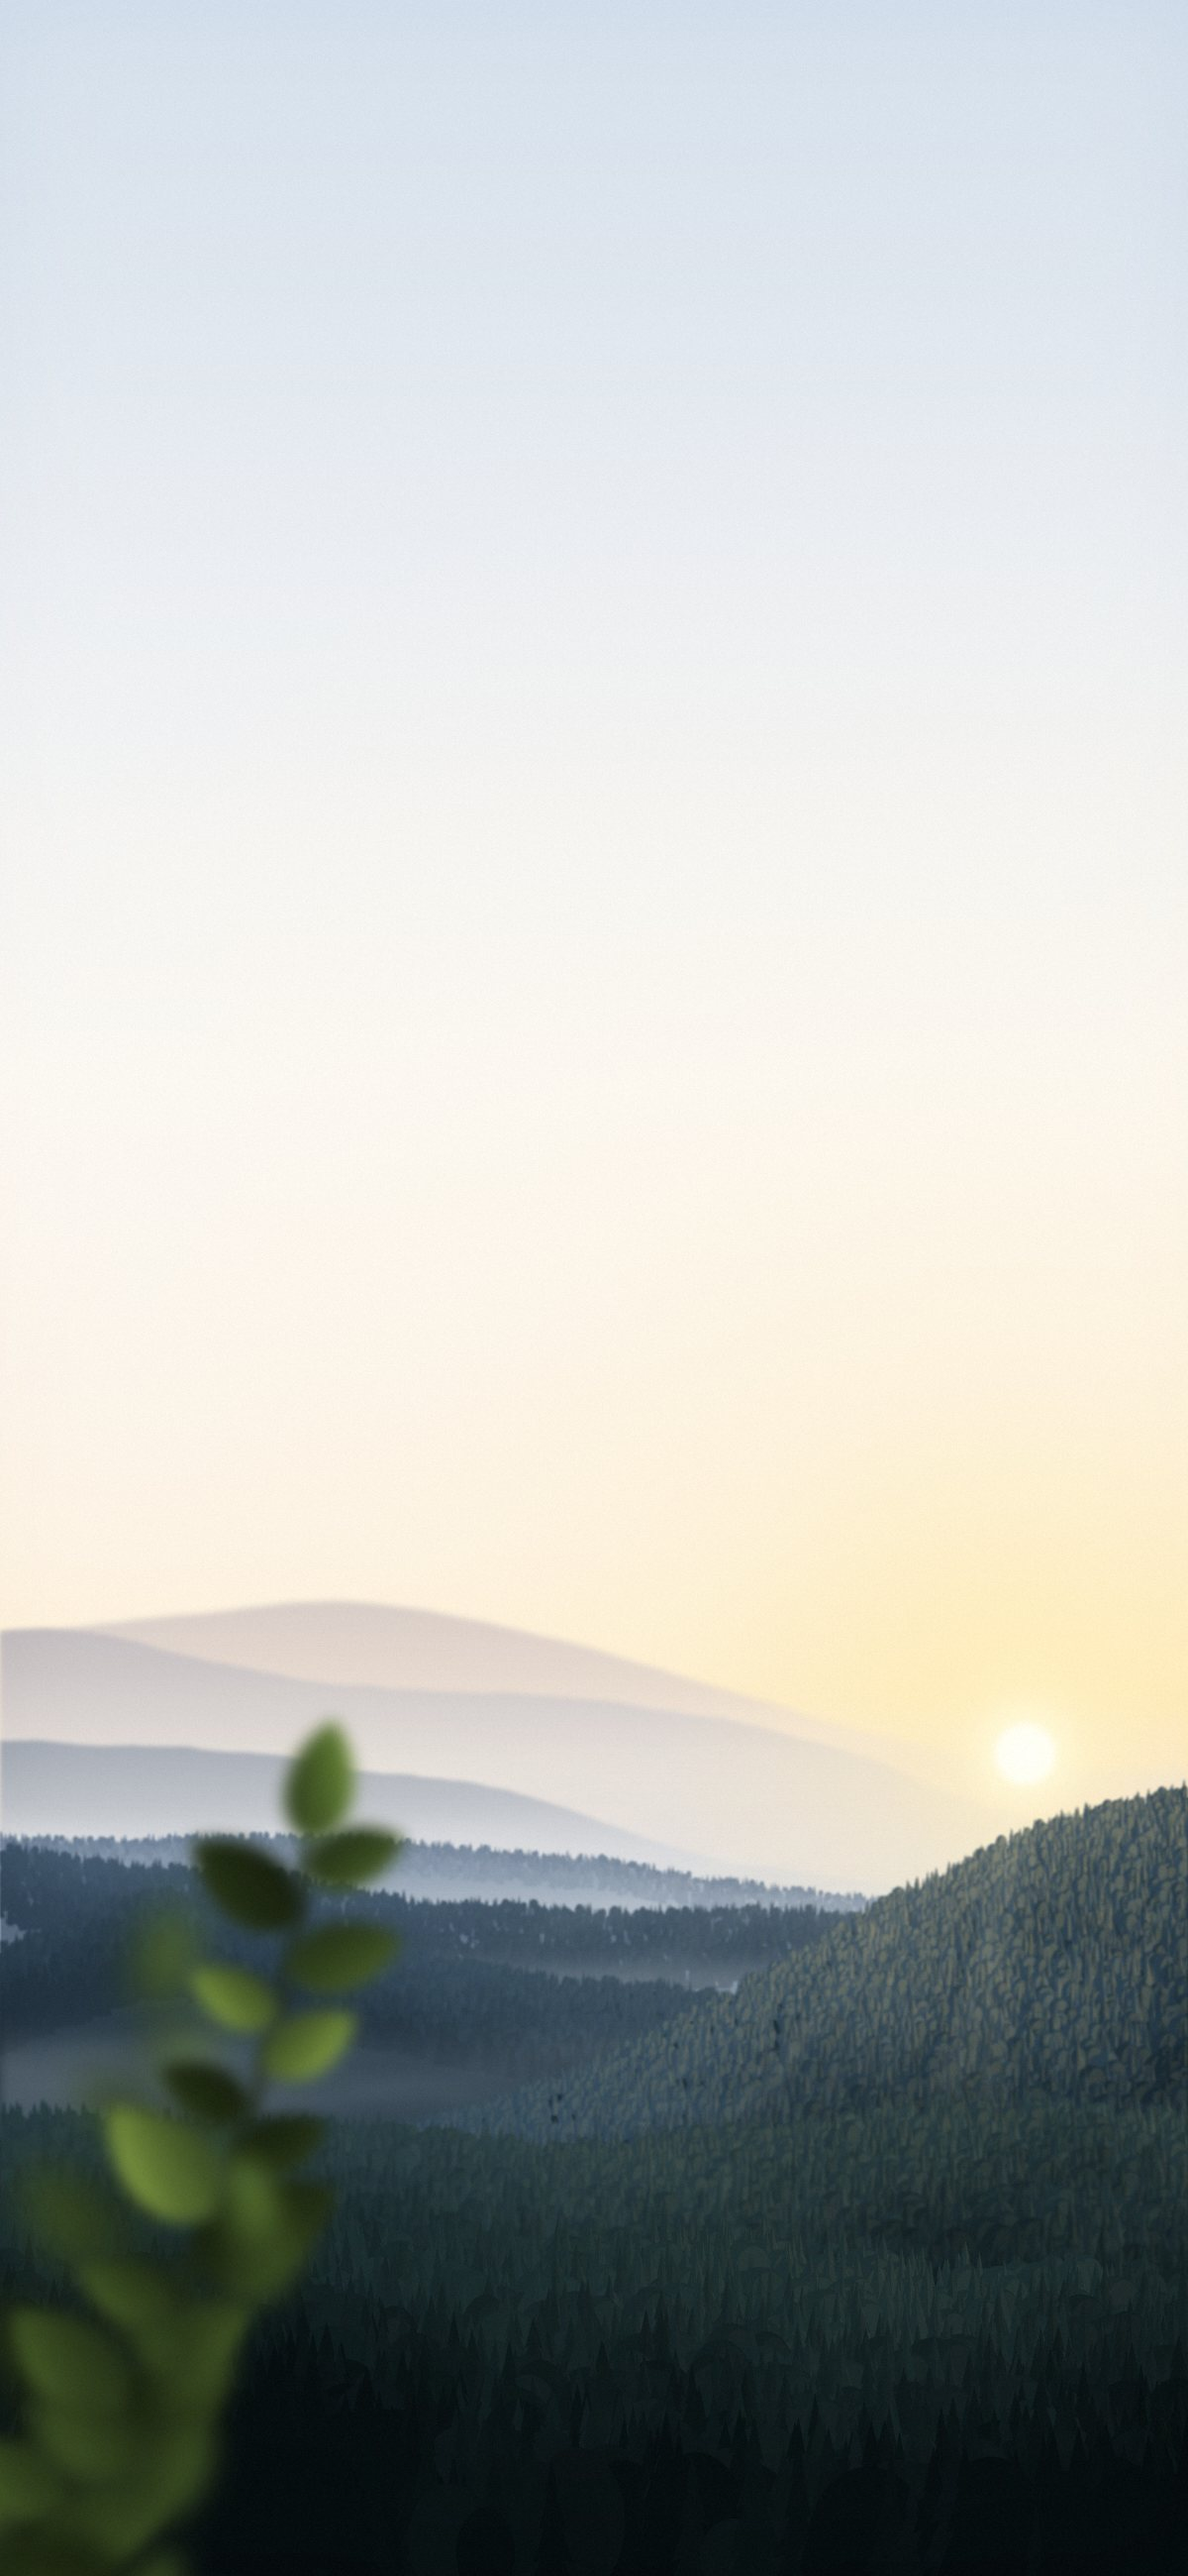
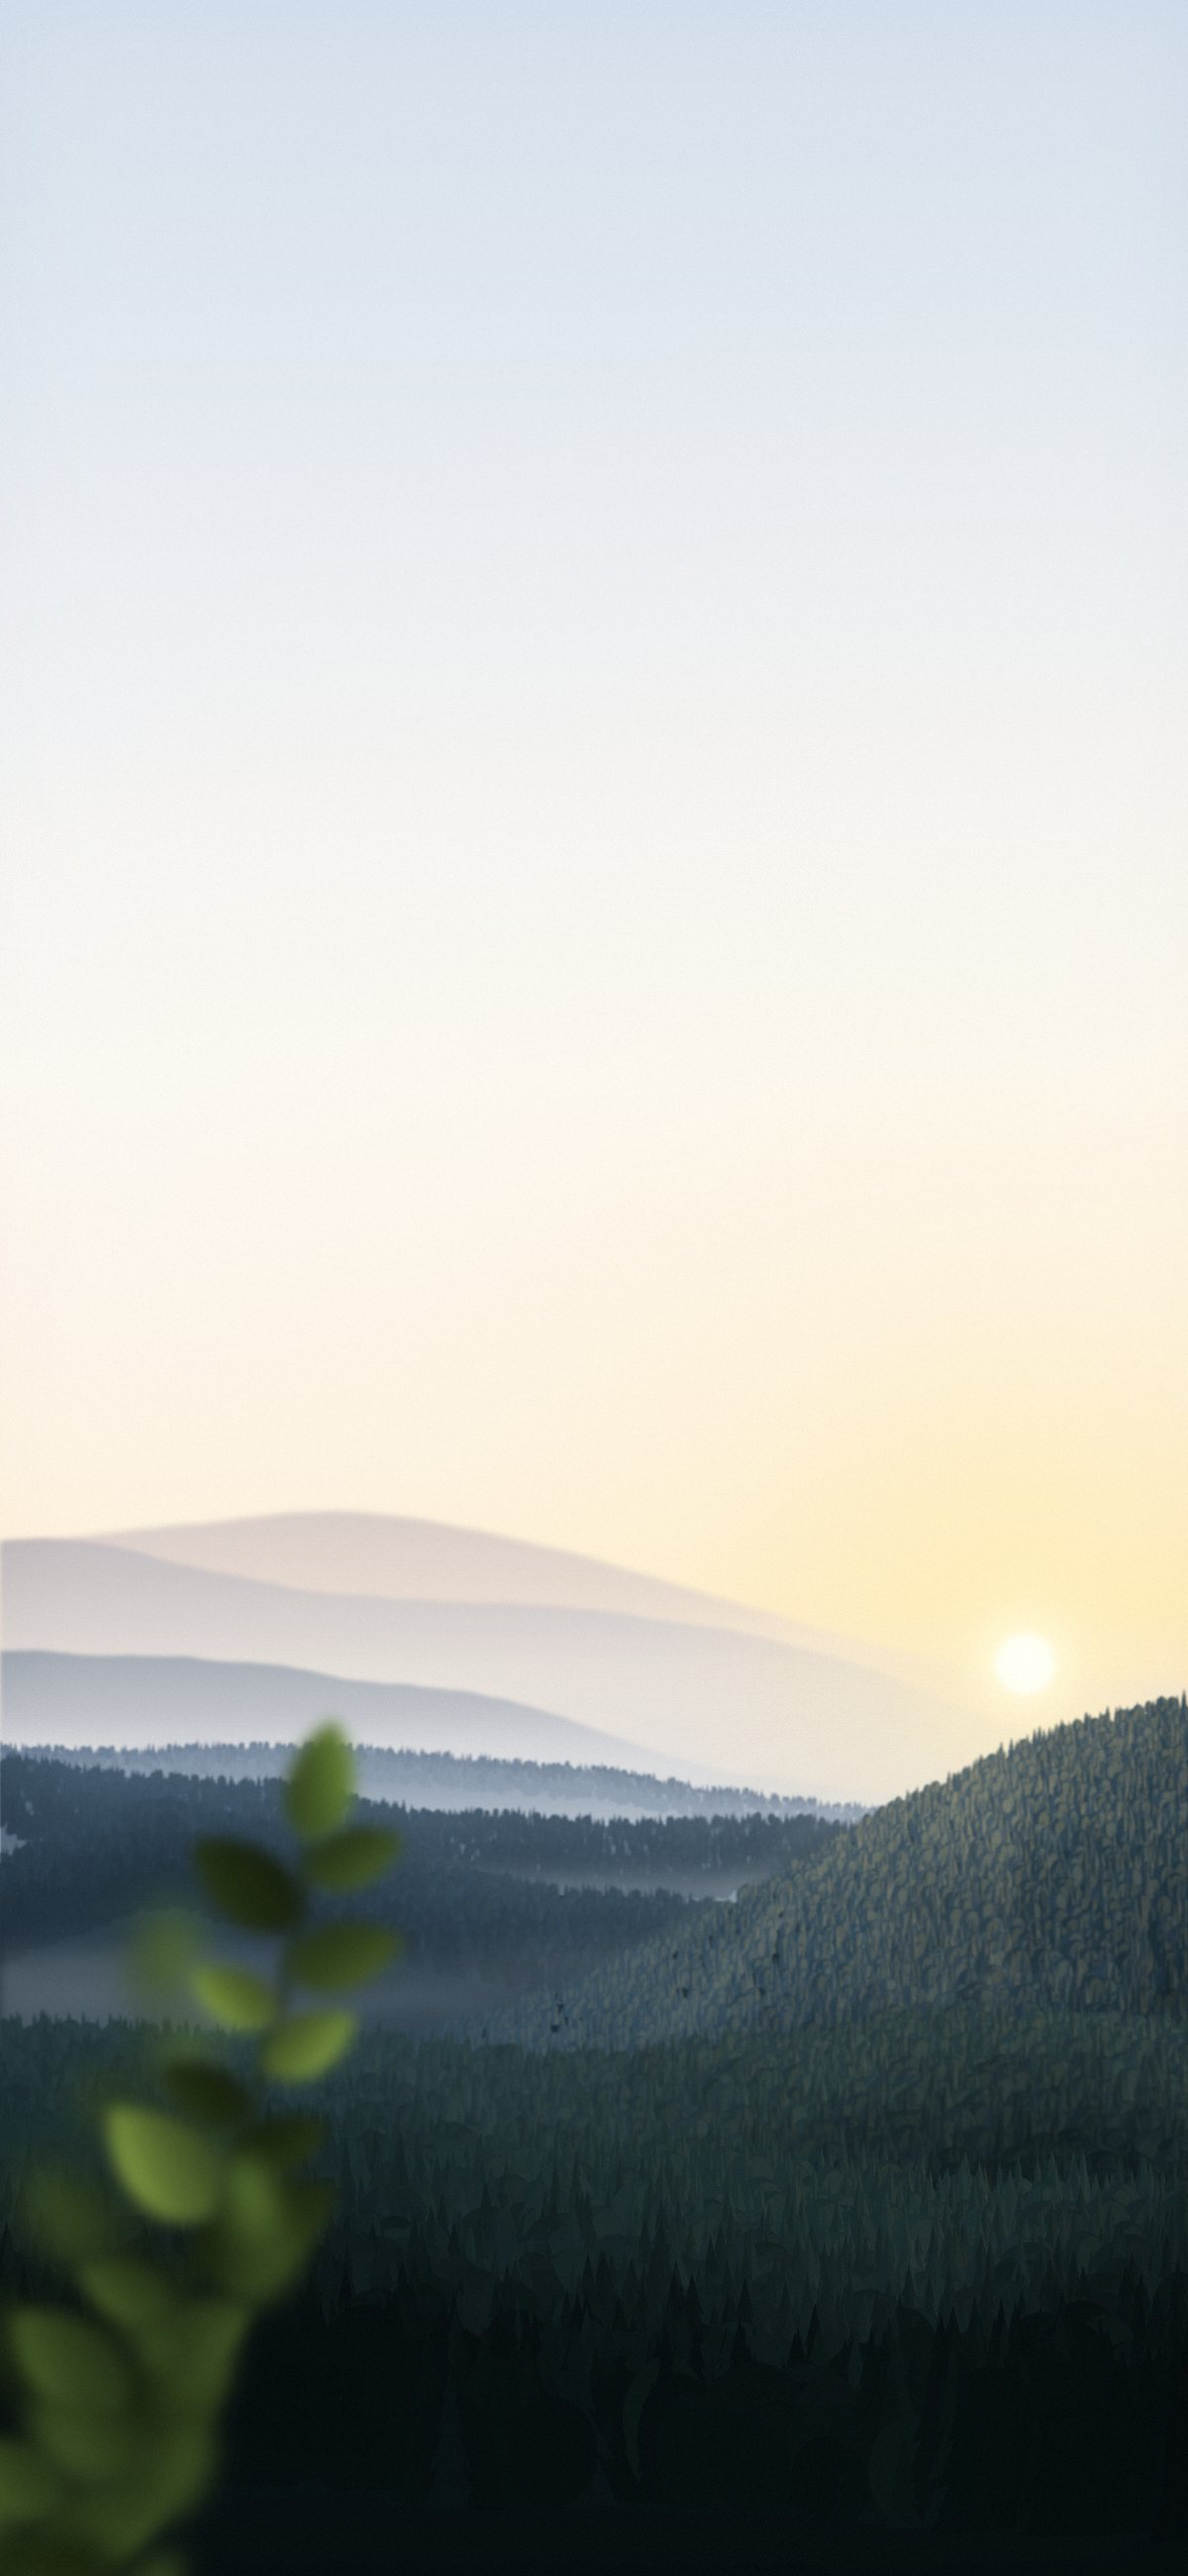
The hills sit higher on the loading and welcome pages and THE is set tighter, closer to Edwin's design, and the phone's splash lifts only once the app's own sprout is drawn

diff --git a/mobile/assets/brand/dawn.html b/mobile/assets/brand/dawn.html
@@ -3,11 +3,15 @@
 <body style="margin:0;background:#000">
 <canvas id="c"></canvas>
 <script>
-// A sunrise over misty forested ridges, after Edwin's loading-screen mockup.
+// A sunrise over misty forested ridges, after Edwin's loading-screen mockup
+// (the background of src/ui/Dawn.tsx). Open this file in a browser with
+//   #W=1200&H=2600&sun=0.863&seed=7&lift=0.035   (dawn-tall.jpg, JPEG 84%)
+//   #W=2400&H=1500&sun=0.70&seed=7&lift=0.035    (dawn-wide.jpg, JPEG 80%)
+// and save the canvas; the same seed draws the same hills every time.
 // Scene units: v = y / H, u = (x - sunX * W) / H, so a tall phone image and a
 // wide desktop image share the same hills around the sun.
 const P = Object.fromEntries(new URLSearchParams(location.hash.slice(1)))
-const W = +P.W, H = +P.H, SUNX = +P.sun, SEED = +(P.seed || 7)
+const W = +P.W, H = +P.H, SUNX = +P.sun, SEED = +(P.seed || 7), LIFT = +(P.lift || 0)
 const cv = document.getElementById('c')
 cv.width = W; cv.height = H
 let ctx = cv.getContext('2d')
@@ -28,13 +32,13 @@ function mixc(c1, c2, t) { const a = Array.isArray(c1) ? c1 : hex(c1), b = Array
 const X = (u) => SUNX * W + u * H
 const U = (x) => (x - SUNX * W) / H
 const HORIZON = 0.68
-const SUN = { x: X(0), y: (HORIZON + 0.001) * H }
+const SUN = { x: X(0), y: (HORIZON + 0.001 - LIFT) * H }
 
 // 1. The sky: pale blue at the top, cream through the middle, warm at the hills.
 function sky() {
   const g = ctx.createLinearGradient(0, 0, 0, H)
   const stops = [[0, '#ccd9e7'], [0.1, '#d6dfe9'], [0.22, '#e6eaef'], [0.33, '#f3f2f0'], [0.42, '#faf6f0'], [0.52, '#faf2e9'], [0.6, '#fcf0e0'], [0.65, '#fcecd1'], [0.69, '#f8e0bb'], [0.8, '#e9d2b4'], [1, '#cdbba6']]
-  for (const [o, c] of stops) g.addColorStop(o, c)
+  for (const [o, c] of stops) g.addColorStop(o >= 0.5 && o < 1 ? o - LIFT : o, c)
   ctx.fillStyle = g
   ctx.fillRect(0, 0, W, H)
   // Warmth spreading from the sun.
@@ -61,7 +65,7 @@ function sun() {
 
 // A ridge as a function of x in pixels.
 function ridge(base, amp, freq, seed, oct = 6) {
-  return (x) => (base(U(x)) + (fbm(U(x) * freq + 10, seed, oct) - 0.5) * 2 * amp) * H
+  return (x) => (base(U(x)) - LIFT + (fbm(U(x) * freq + 10, seed, oct) - 0.5) * 2 * amp) * H
 }
 
 function fillRidge(ry, top, bottom, alpha = 1, to = H) {
@@ -262,6 +266,7 @@ function fbm2(x, y, s, oct = 5) { let a = 1, f = 1, sum = 0, n = 0; for (let o =
 
 // Uneven mist between v0 and v1: thick in places, thin in others.
 function mistNoise(v0, v1, color, alpha, seed, stretch = 6) {
+  v0 -= LIFT; v1 -= LIFT
   const scale = 4
   const w = Math.ceil(W / scale), h = Math.ceil(((v1 - v0) * H) / scale)
   const off = document.createElement('canvas'); off.width = w; off.height = h

diff --git a/mobile/src/ui/Logo.tsx b/mobile/src/ui/Logo.tsx
@@ -61,7 +61,7 @@ export function Wordmark({ width, ink, lineInk }: { width: number; ink: string; 
   })
   return (
     <View accessible accessibilityRole="image" accessibilityLabel="The Persona Index. Understand. Grow. Be more you." style={{ alignItems: 'center' }}>
-      <Text allowFontScaling={false} style={line(s * 0.6, s * 0.34, ink, font.bold, 1.3)}>
+      <Text allowFontScaling={false} style={line(s * 0.6, s * 0.22, ink, font.bold, 1.3)}>
         THE
       </Text>
       {/* An empty box the ™'s width on the left keeps the name centred; nothing
